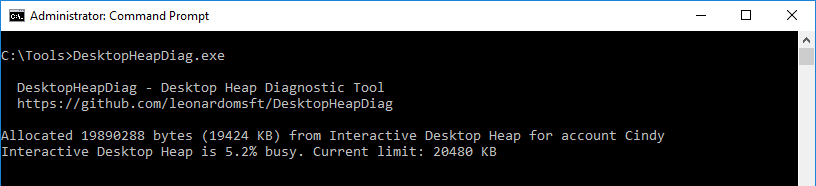
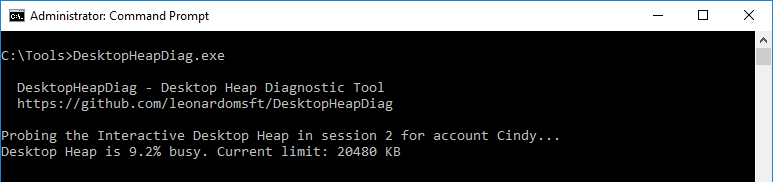
improv4

diff --git a/main.cpp b/main.cpp
@@ -149,6 +149,19 @@ void probe_heap(int lAmountKB, int iWait) {
 	else
 		cCount = INT32_MAX;
 
+	//Session, User
+	int iSessionID = get_sessionid();
+	WCHAR szUsername[MAX_PATH] = {};
+	DWORD cbUsername = sizeof(szUsername);
+
+	if (!GetUserNameW(szUsername, &cbUsername)) {
+
+		wprintf_s(L"GetUserNameW failed. Last error: %d. \n", GetLastError());
+	}
+
+
+	wprintf_s(L"Probing the %s Desktop Heap in session %d for account %s...\n", iSessionID > 0 ? L"Interactive" : L"Non-Interactive", iSessionID, szUsername);
+
 	for (x = 0; x < cCount; x++)
 	{
 		swprintf_s(szClassName, 100, L"myWindowClass%d", x);
@@ -193,44 +206,28 @@ void probe_heap(int lAmountKB, int iWait) {
 	}
 
 	//Reporting
-	int iSessionID = get_sessionid();
-	//LPWSTR pUsername = get_username();
+	if (lAmountKB != NULL) {
 
-	WCHAR szUsername[256] = {};
-	DWORD cbUsername = sizeof(szUsername);
-
-	if (!GetUserNameW(szUsername, &cbUsername)) {
-
-		wprintf_s(L"GetUserNameW failed. Last error: %d. \n", GetLastError());
+		wprintf_s(L"Allocated %d bytes (%d KB).\n", x * TotalSizeBytes, (x * TotalSizeBytes) / 1024);
 	}
 
 	float CurrentUsage = 0.0f;
-	
 
-	if (iSessionID > 0) {
+	if (bLimitReached) {
 
-		//wprintf_s(L"Allocated %d bytes (%d KB) from Interactive Desktop Heap for account %s\n", x * TotalSizeBytes, (x * TotalSizeBytes) / 1024, szUsername);
-
-		if (bLimitReached) {
+		if (iSessionID > 0) {
 
 			CurrentUsage = ((((x * TotalSizeBytes) / (float)g_InteractiveLimitBytes) * 100) - 100) * -1;
 
-			wprintf_s(L"Session %d, User: %s: Interactive Desktop Heap is %.1f%% busy. Current limit: %d KB\n\n", iSessionID, szUsername, CurrentUsage, g_InteractiveLimitBytes / 1024);
 		}
-	}
-	else {
-
-		//wprintf_s(L"Allocated %d bytes (%d KB) from Non-Interactive Desktop Heap for account %s\n", x * TotalSizeBytes, (x * TotalSizeBytes) / 1024, szUsername);
-
-		if (bLimitReached) {
-
+		else {
 			CurrentUsage = ((((x * TotalSizeBytes) / (float)g_NonInteractiveLimitBytes) * 100) - 100) * -1;
 
-			wprintf_s(L"Session %d, User: %s: Non-Interactive Desktop Heap is %.1f%% busy. Current limit: %d KB\n\n", iSessionID, szUsername, CurrentUsage, g_NonInteractiveLimitBytes / 1024);
 		}
+
+		wprintf_s(L"Desktop Heap is %.1f%% busy. Current limit: %d KB\n\n", CurrentUsage, iSessionID > 0 ? (g_InteractiveLimitBytes / 1024) : (g_NonInteractiveLimitBytes / 1024));
 	}
 
-	Sleep(5000);
 }
 
 void print_help() {
